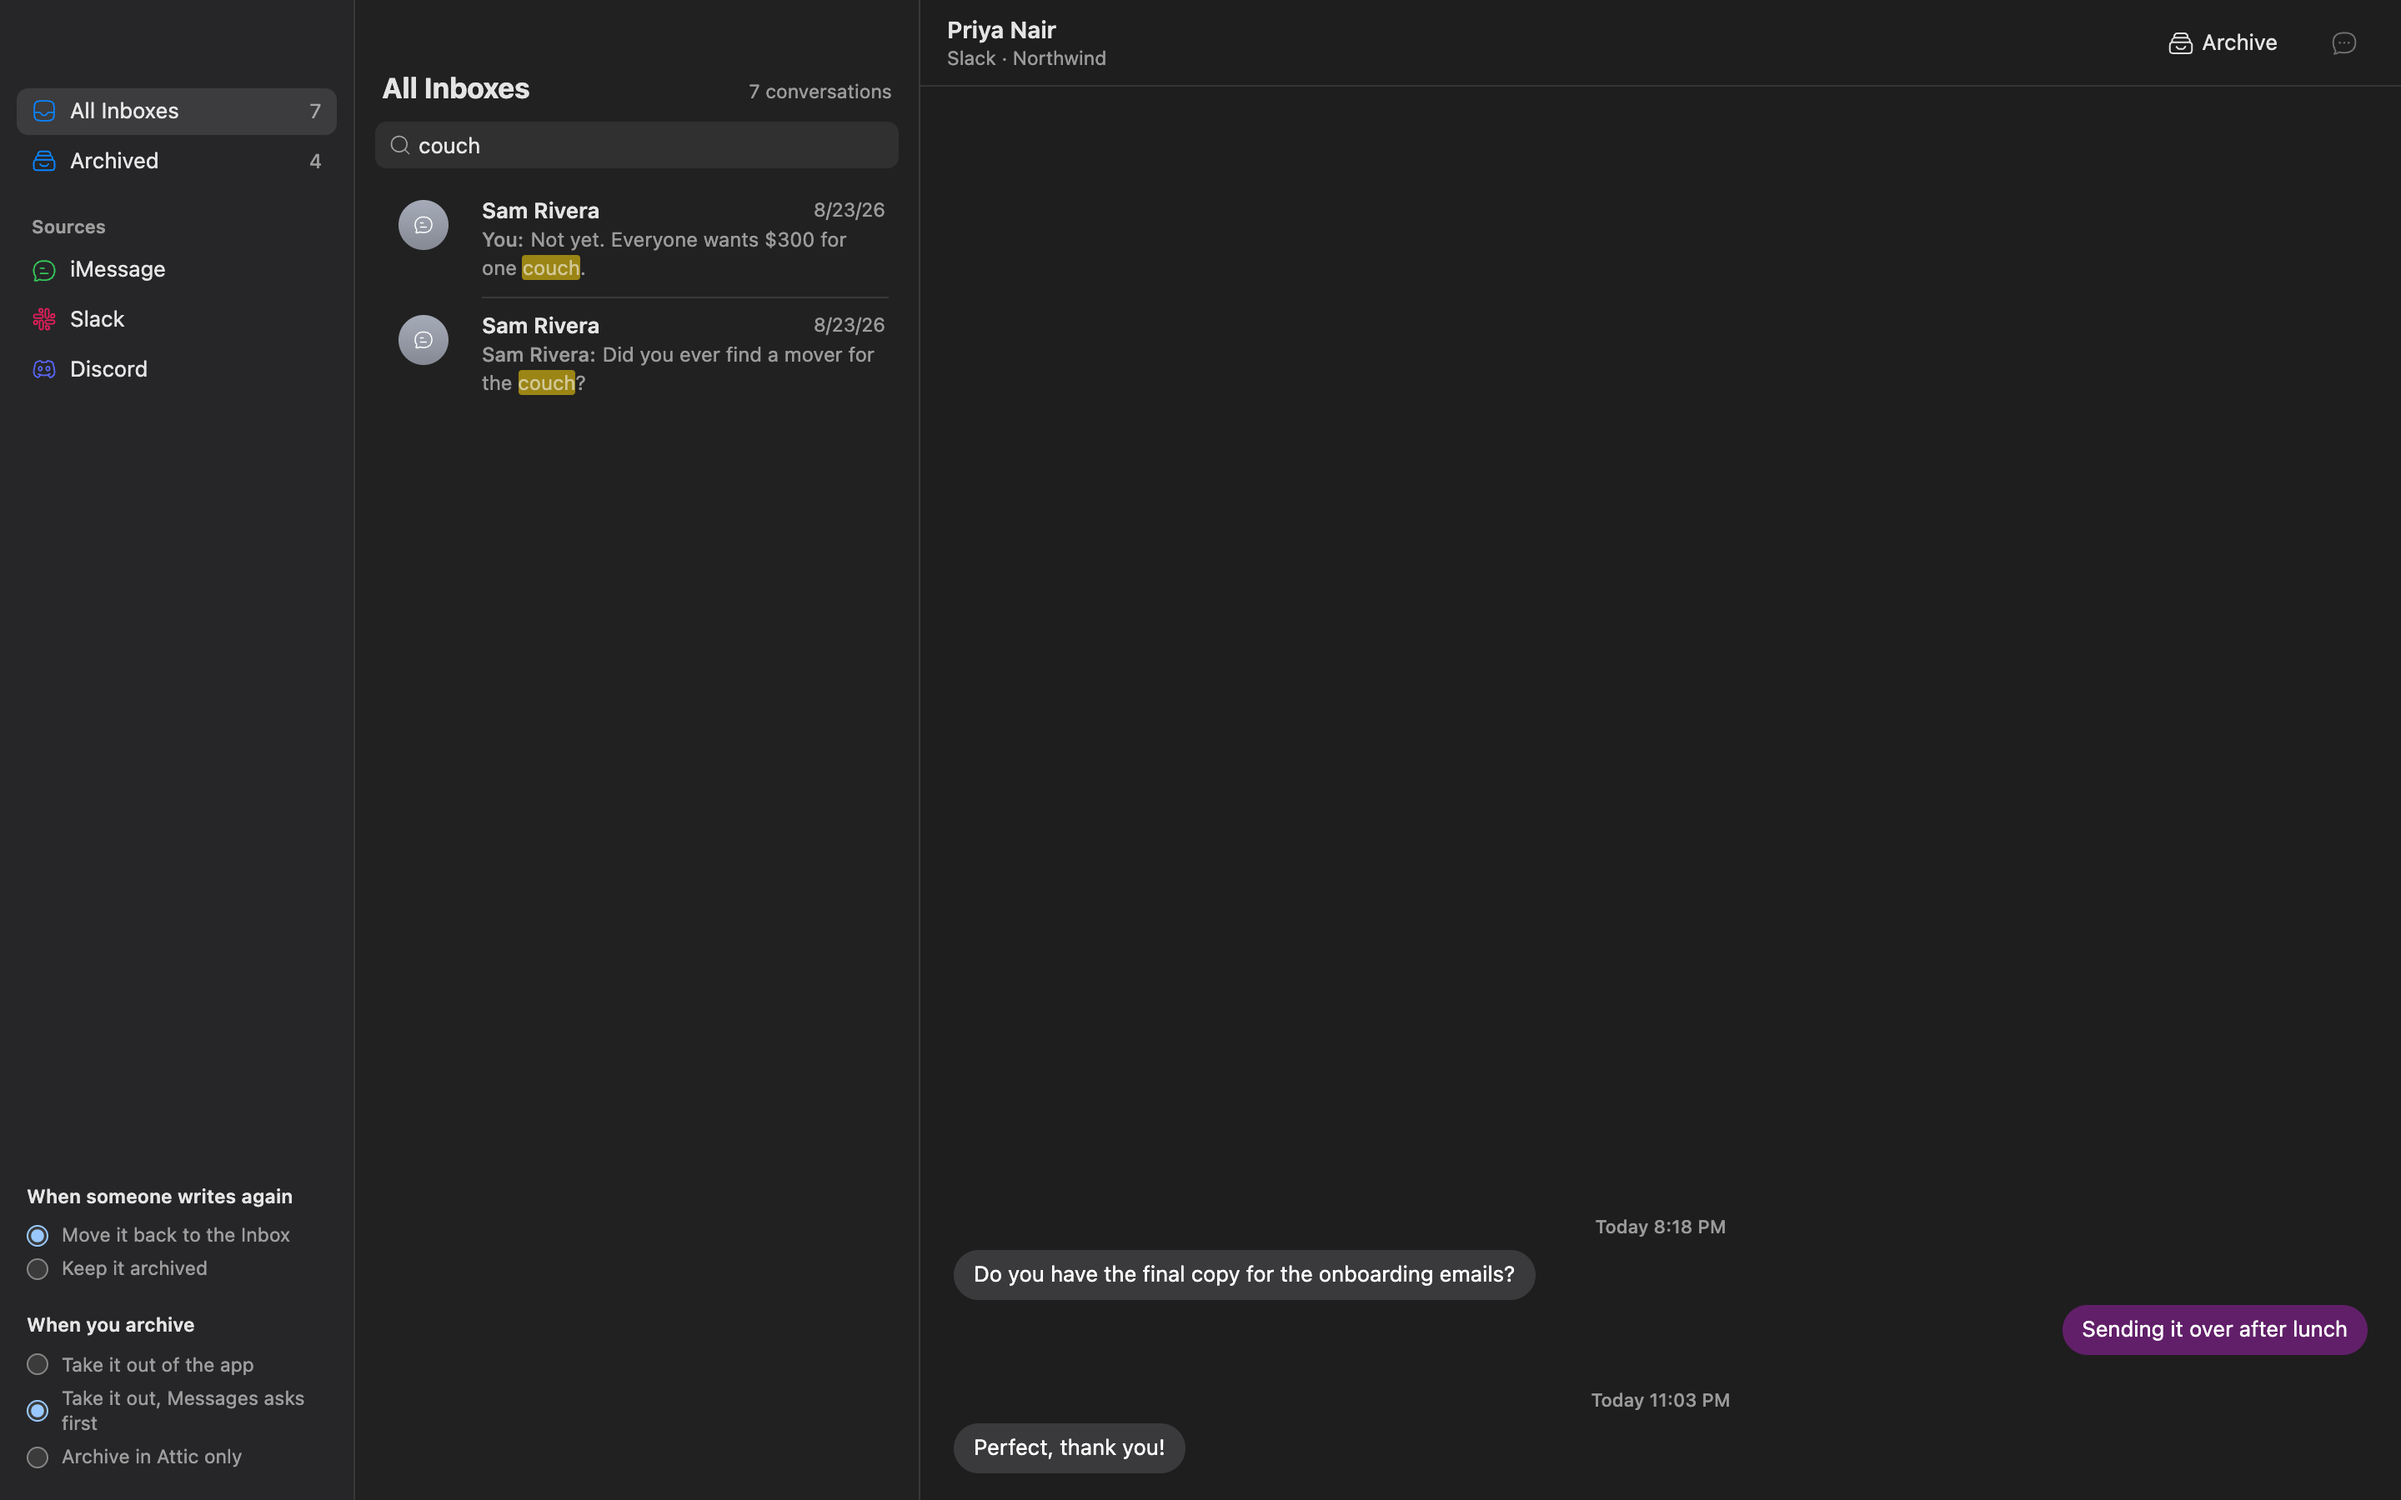
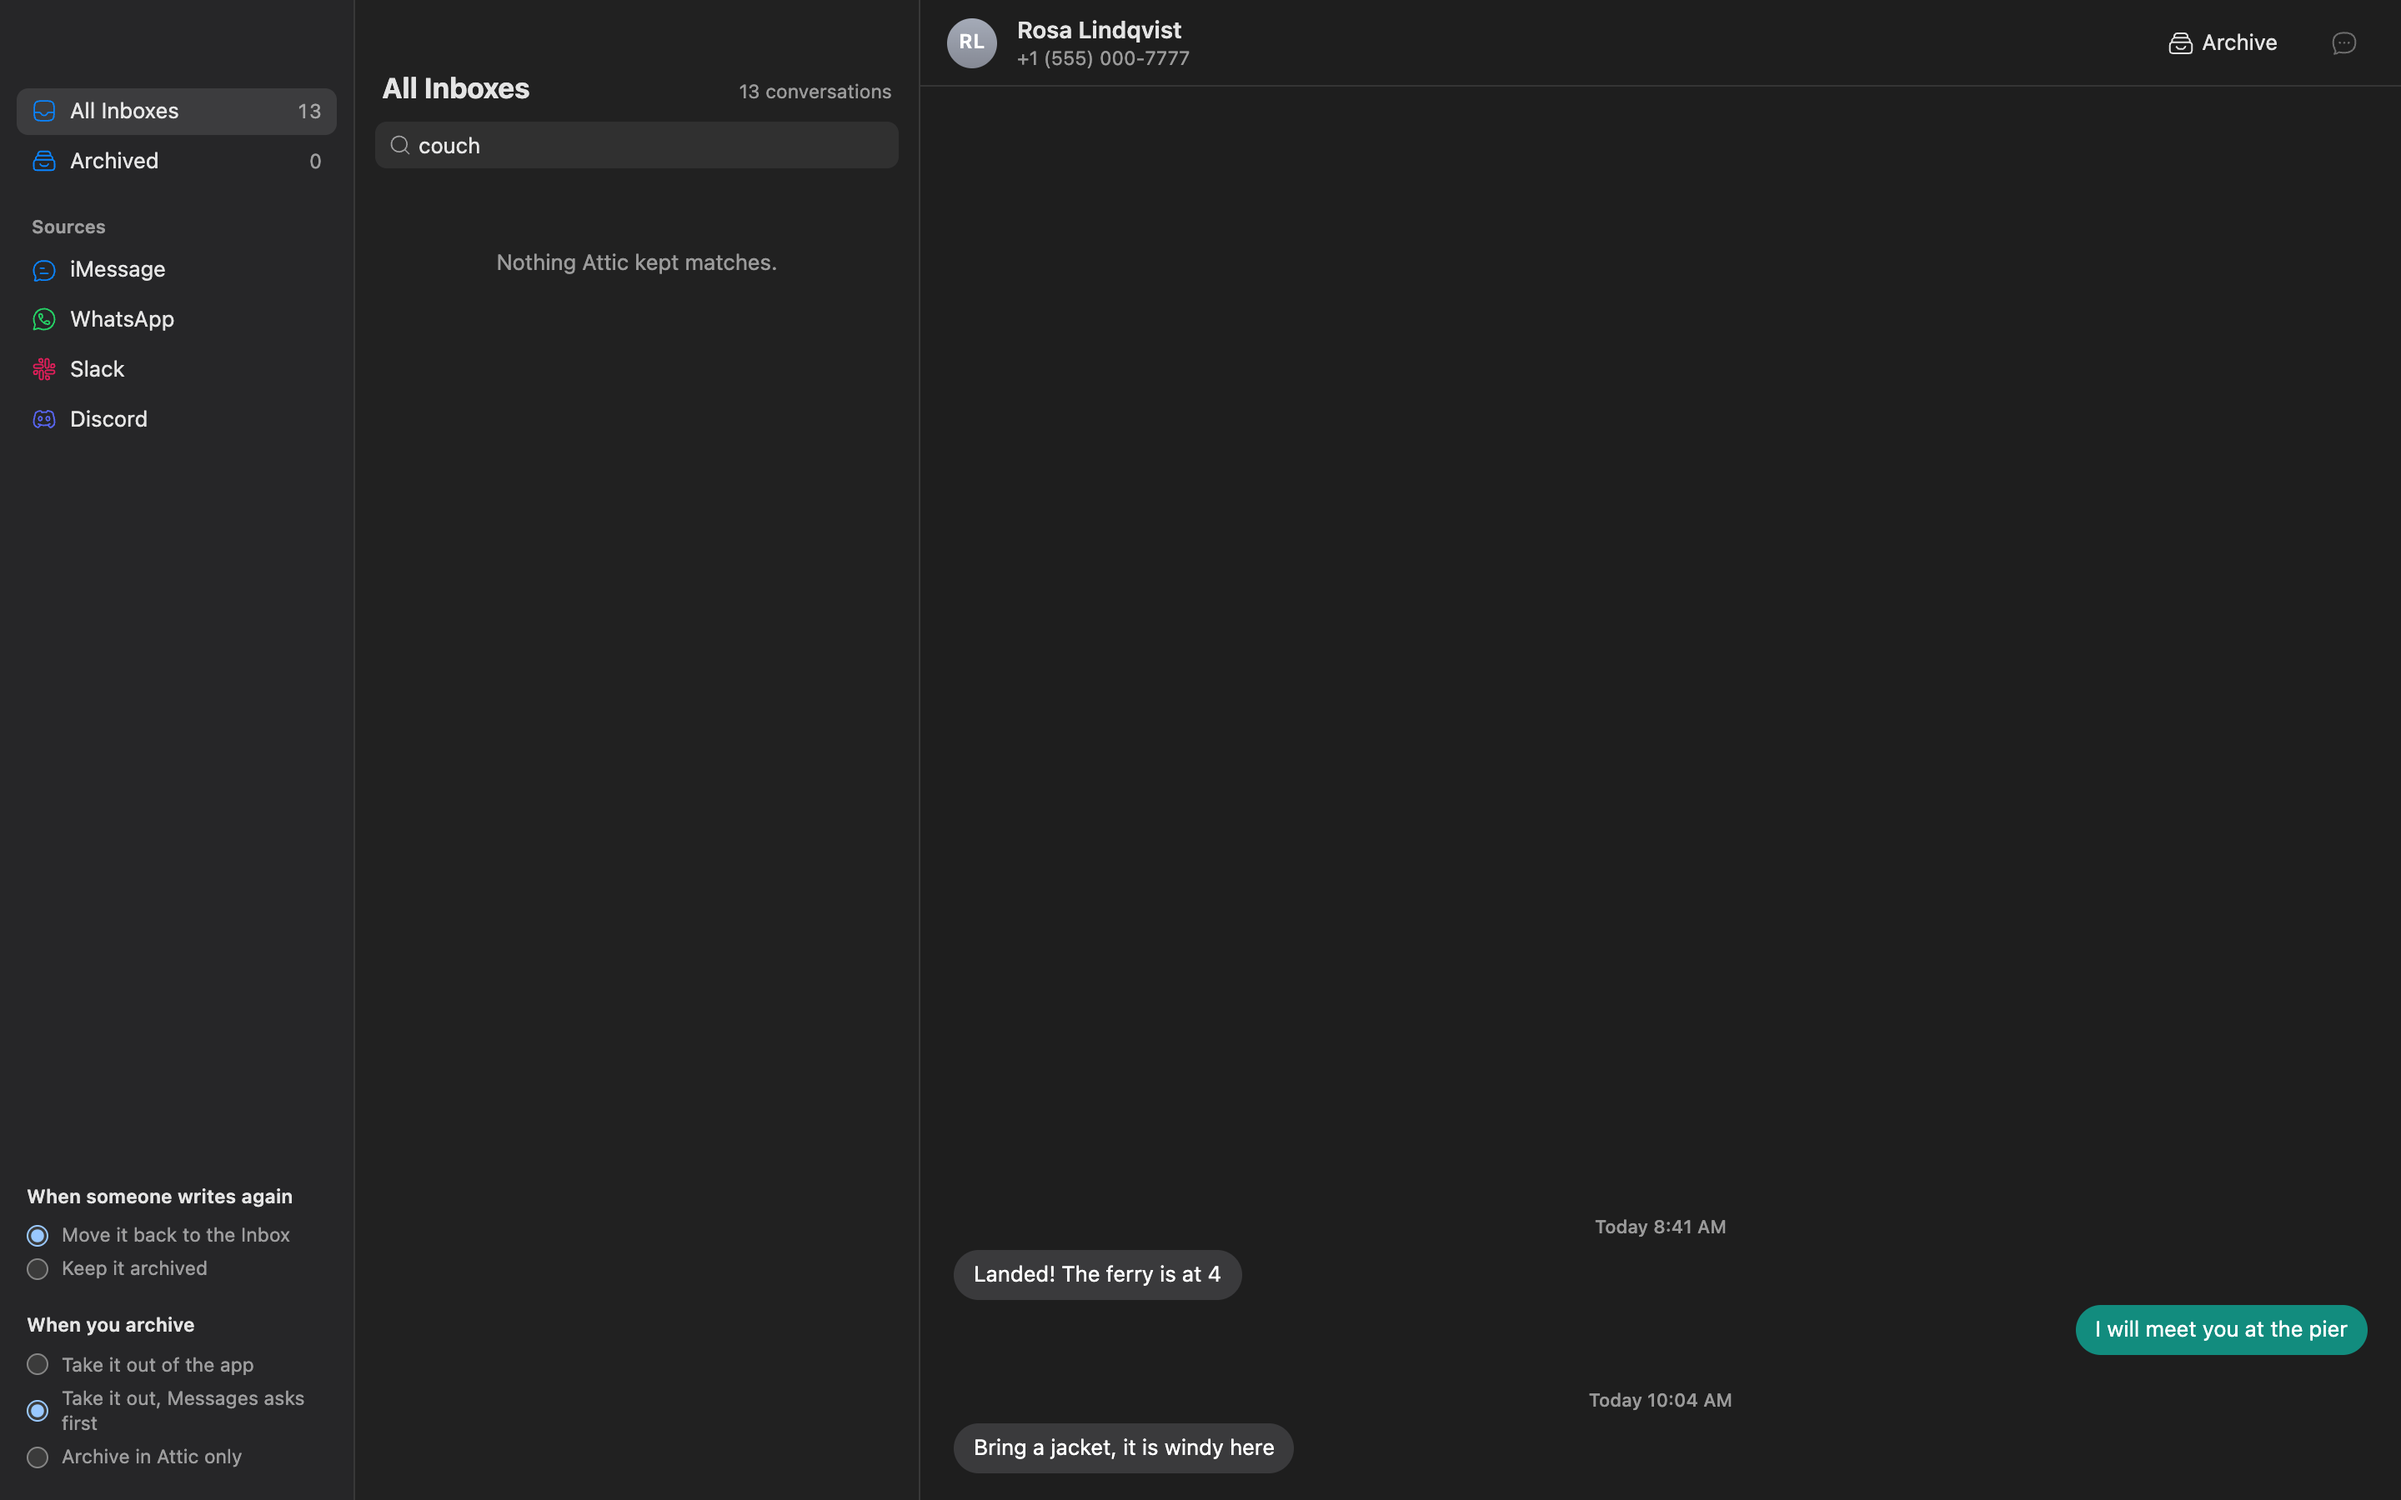
chore: sample contacts get portraits; refresh the site screenshots
Sample mode now exercises the Contacts photo path with generated PNGs, and
the marketing screenshots show WhatsApp and photos.

diff --git a/scripts/sample.ts b/scripts/sample.ts
@@ -10,6 +10,7 @@
 import { Database } from 'bun:sqlite'
 import { mkdirSync, rmSync, writeFileSync } from 'node:fs'
 import { join } from 'node:path'
+import { createImageData, encode } from 'ts-images'
 import { FakeChatDb } from '../app/Attic/sample-db'
 
 const ROOT = join(import.meta.dir, '..', 'storage', 'attic', 'sample')
@@ -34,19 +35,52 @@ function picture(label: string, from: string, to: string): string {
 </svg>`
 }
 
-function addressBook(dir: string): void {
+/**
+ * An invented contact photo: a two-tone gradient behind a head-and-shoulders
+ * silhouette, as a PNG. Stored the way Contacts stores an inline photo (a
+ * 0x01 tag, then the image), so sample mode exercises the real photo path.
+ */
+async function portrait(hue: number): Promise<Uint8Array> {
+  const size = 128
+  const image = createImageData(size, size)
+  const rgb = (h: number, s: number, l: number): [number, number, number] => {
+    const k = (n: number) => (n + h / 30) % 12
+    const a = s * Math.min(l, 1 - l)
+    const f = (n: number) => l - a * Math.max(-1, Math.min(k(n) - 3, Math.min(9 - k(n), 1)))
+    return [f(0) * 255, f(8) * 255, f(4) * 255]
+  }
+  const [from, to, figure] = [rgb(hue, 0.55, 0.62), rgb((hue + 40) % 360, 0.6, 0.42), rgb(hue, 0.35, 0.9)]
+  for (let y = 0; y < size; y++) {
+    for (let x = 0; x < size; x++) {
+      const t = (x + y) / (2 * size)
+      const head = (x - 64) ** 2 + (y - 52) ** 2 < 22 ** 2
+      const shoulders = ((x - 64) / 44) ** 2 + ((y - 128) / 40) ** 2 < 1
+      const color = head || shoulders ? figure : [from[0] + (to[0] - from[0]) * t, from[1] + (to[1] - from[1]) * t, from[2] + (to[2] - from[2]) * t]
+      const i = (y * size + x) * 4
+      image.data[i] = color[0]!
+      image.data[i + 1] = color[1]!
+      image.data[i + 2] = color[2]!
+      image.data[i + 3] = 255
+    }
+  }
+  return encode(image, 'png')
+}
+
+async function addressBook(dir: string): Promise<void> {
   const folder = join(dir, 'Sources', 'SAMPLE')
   mkdirSync(folder, { recursive: true })
   const db = new Database(join(folder, 'AddressBook-v22.abcddb'), { create: true })
   db.exec(`
-    CREATE TABLE ZABCDRECORD (Z_PK INTEGER PRIMARY KEY, ZFIRSTNAME TEXT, ZLASTNAME TEXT, ZNICKNAME TEXT, ZORGANIZATION TEXT);
+    CREATE TABLE ZABCDRECORD (Z_PK INTEGER PRIMARY KEY, ZFIRSTNAME TEXT, ZLASTNAME TEXT, ZNICKNAME TEXT, ZORGANIZATION TEXT, ZTHUMBNAILIMAGEDATA BLOB, ZIMAGEDATA BLOB);
     CREATE TABLE ZABCDPHONENUMBER (Z_PK INTEGER PRIMARY KEY, ZOWNER INTEGER, ZFULLNUMBER TEXT);
     CREATE TABLE ZABCDEMAILADDRESS (Z_PK INTEGER PRIMARY KEY, ZOWNER INTEGER, ZADDRESS TEXT);
   `)
   let id = 0
   for (const person of Object.values(people)) {
     id++
-    db.query('INSERT INTO ZABCDRECORD (Z_PK, ZFIRSTNAME, ZLASTNAME) VALUES (?, ?, ?)').run(id, person.name[0], person.name[1] || null)
+    // Most sample contacts have a photo; one keeps its initials, as real ones do.
+    const photo = id === 3 ? null : new Uint8Array([1, ...await portrait((id * 67) % 360)])
+    db.query('INSERT INTO ZABCDRECORD (Z_PK, ZFIRSTNAME, ZLASTNAME, ZTHUMBNAILIMAGEDATA) VALUES (?, ?, ?, ?)').run(id, person.name[0], person.name[1] || null, photo)
     if (person.handle.includes('@'))
       db.query('INSERT INTO ZABCDEMAILADDRESS (ZOWNER, ZADDRESS) VALUES (?, ?)').run(id, person.handle)
     else
@@ -55,7 +89,7 @@ function addressBook(dir: string): void {
   db.close()
 }
 
-export function buildSample(root = ROOT): { chatDb: string, addressBook: string, data: string } {
+export async function buildSample(root = ROOT): Promise<{ chatDb: string, addressBook: string, data: string }> {
   rmSync(root, { recursive: true, force: true })
   const chat = new FakeChatDb(join(root, 'Messages'))
   const now = Date.now()
@@ -104,7 +138,7 @@ export function buildSample(root = ROOT): { chatDb: string, addressBook: string,
 
   chat.close()
   const book = join(root, 'AddressBook')
-  addressBook(book)
+  await addressBook(book)
   const data = join(root, 'Attic')
   mkdirSync(data, { recursive: true })
   writeFileSync(join(root, 'README.txt'), 'Invented conversations for running Attic in development. Nothing here is real.\n')

diff --git a/scripts/app-sample.ts b/scripts/app-sample.ts
@@ -5,7 +5,7 @@
 import process from 'node:process'
 import { buildSample } from './sample'
 
-const sample = buildSample()
+const sample = await buildSample()
 const child = Bun.spawn(['bun', 'app/Desktop/launcher.ts'], {
   stdio: ['inherit', 'inherit', 'inherit'],
   env: {
